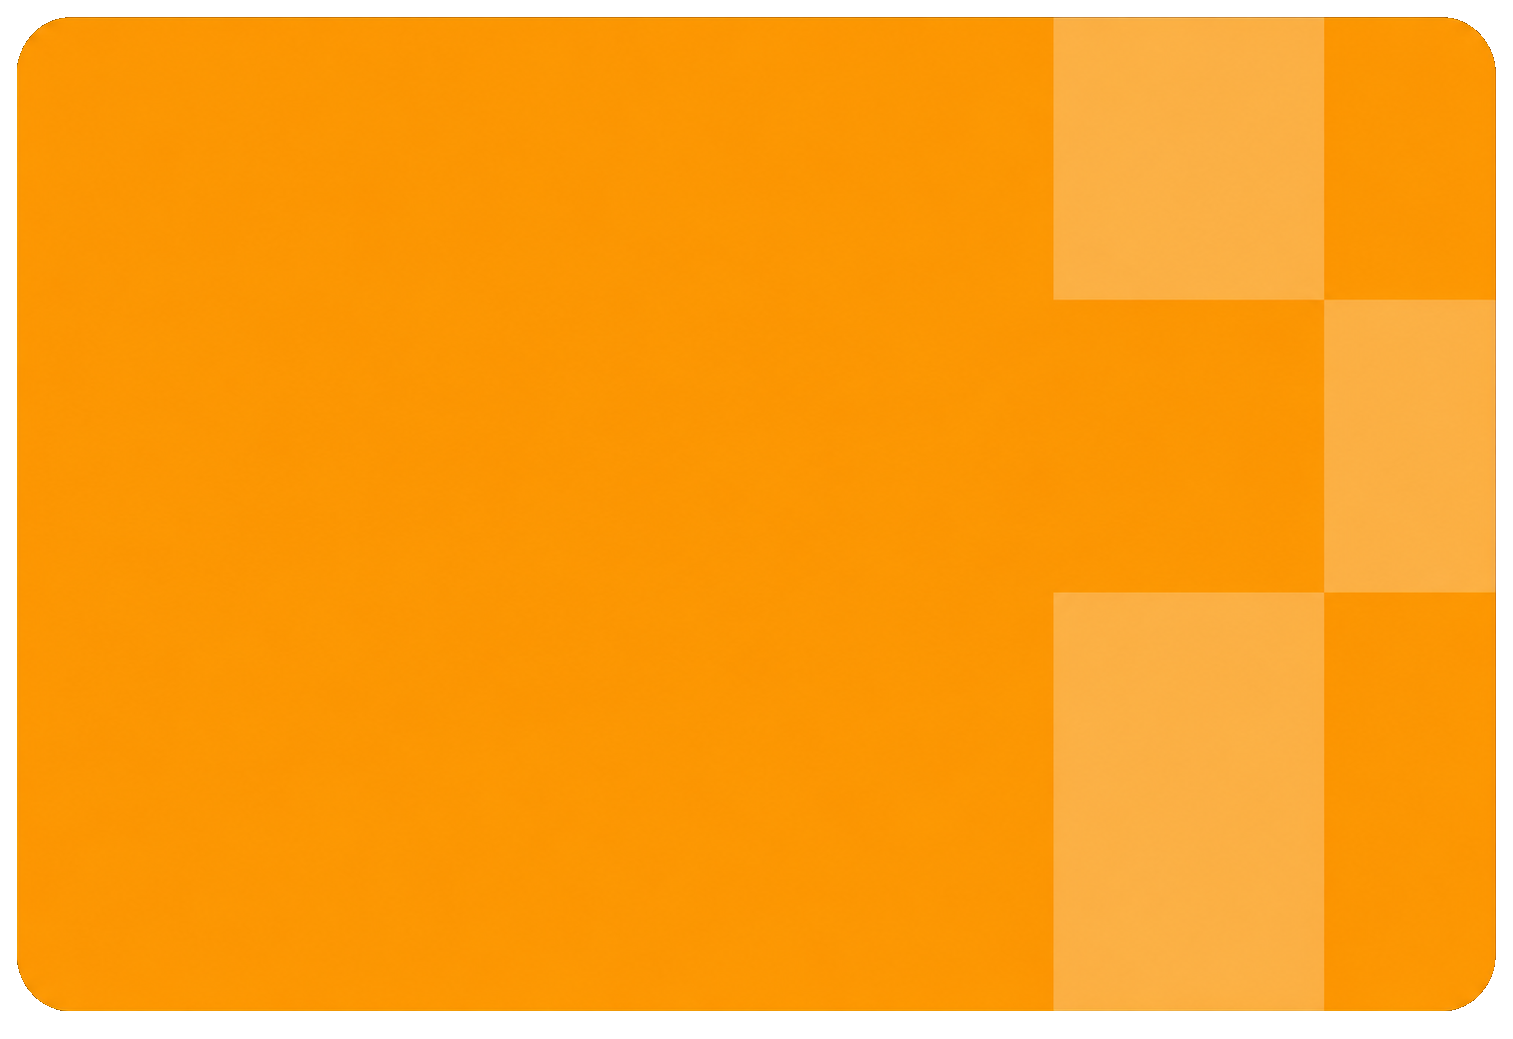
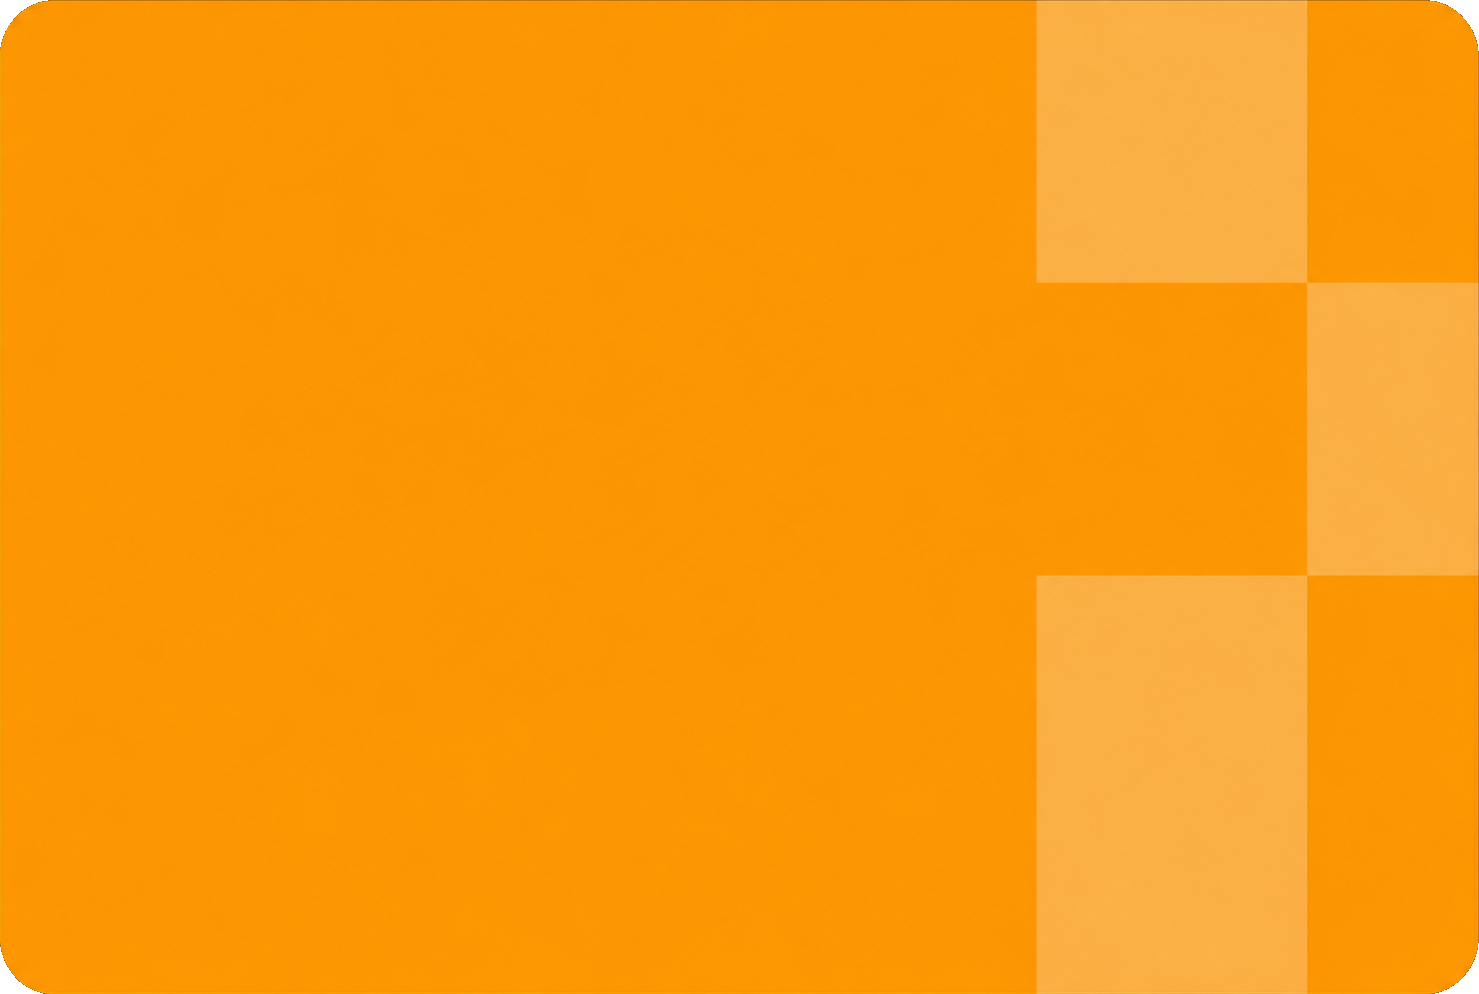
style: added background image for color cards

Changed region(s): [[0.0, 0.0, 1.0, 1.0]]

diff --git a/styles.css b/styles.css
@@ -157,7 +157,8 @@ textarea{
 }
 
 #cards-area div:nth-child(1){
-    background-color: rgb(227, 0, 227);
+    background-image: url(./assets/images/purple_card.png);
+    /* background-color: rgb(227, 0, 227); */
     background-size: cover;
     border-radius: 10px;
     height: 120px;
@@ -168,7 +169,8 @@ textarea{
 }
 
 #cards-area div:nth-child(2){
-    background-color: peru;
+    background-image: url(./assets/images/orange_card.png);
+    /* background-color: peru; */
     background-size: cover;
     border-radius: 10px;
     height: 120px;
@@ -179,7 +181,8 @@ textarea{
 }
 
 #cards-area div:nth-child(3){
-    background-color: salmon;
+    background-image: url(./assets/images/red_card.png);
+    /* background-color: salmon; */
     background-size: cover;
     border-radius: 10px;
     height: 120px;